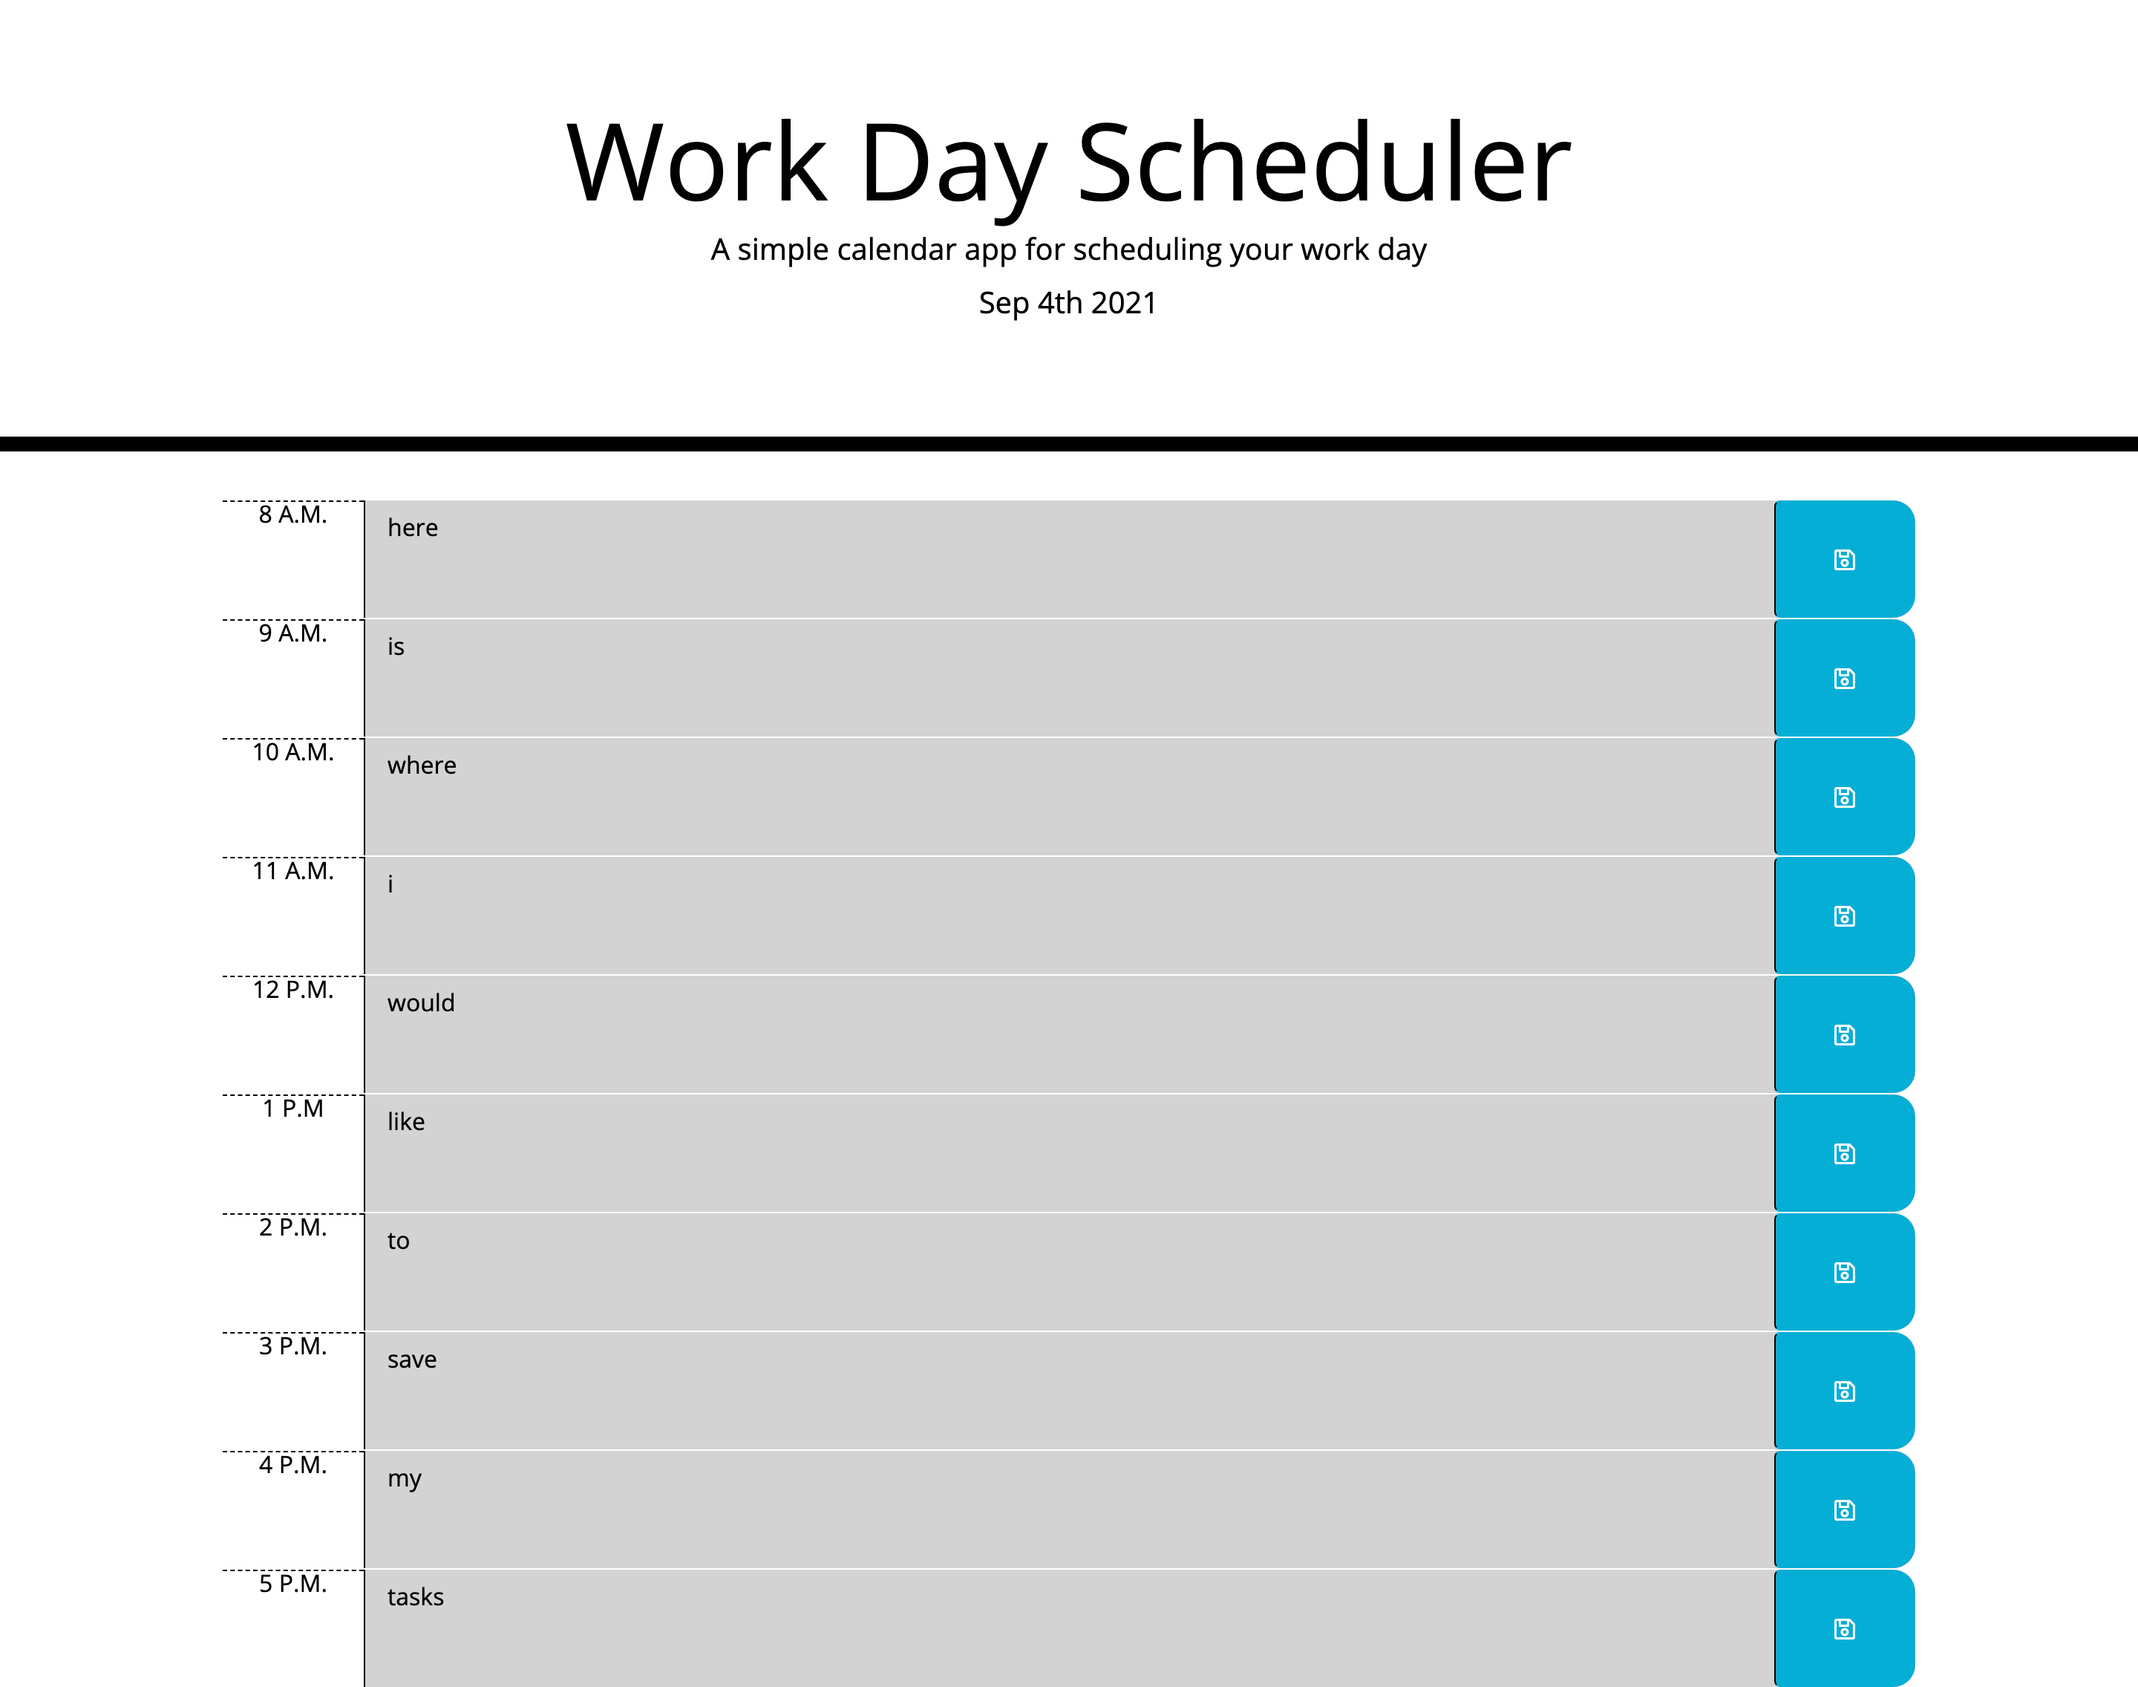
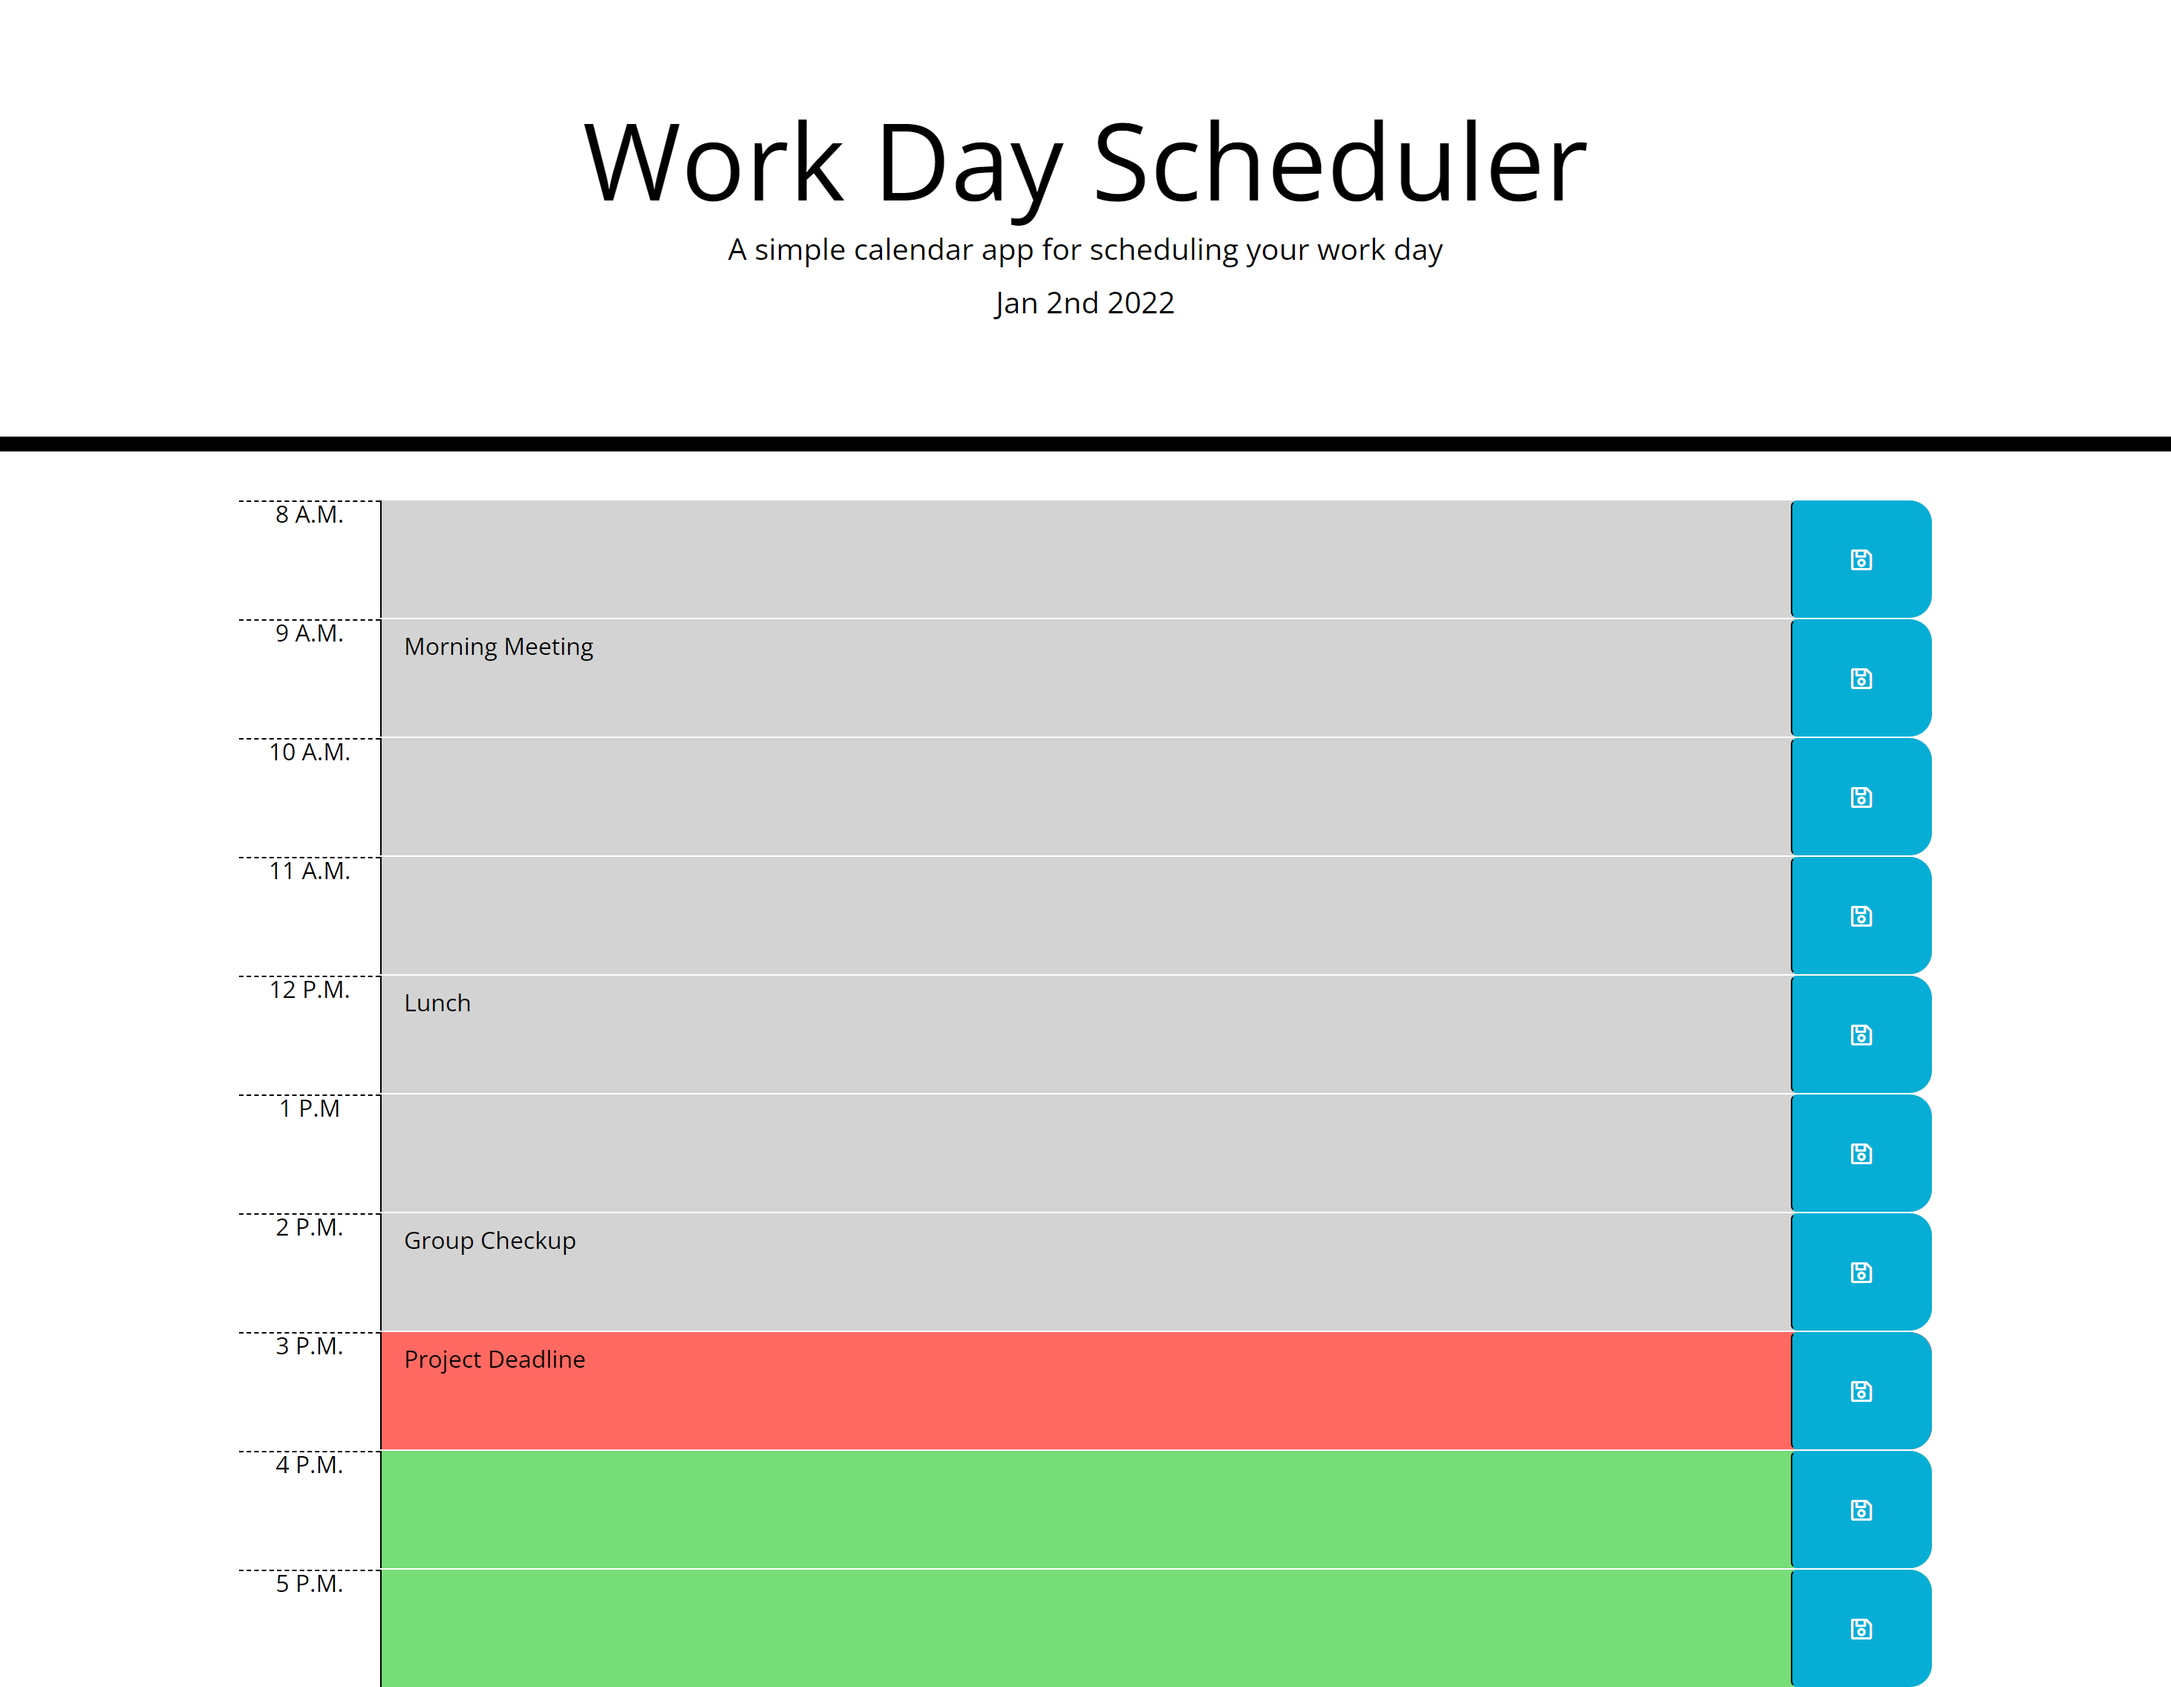
fixed time/color bug, updated readme

Changed region(s): [[0.125, 0.2812, 0.9062, 1.0], [0.25, 0.0625, 0.75, 0.1875]]

diff --git a/Assets/JavaScript/script.js b/Assets/JavaScript/script.js
@@ -1,105 +1,44 @@
 // Displays the current date using moment.js
-let today = moment().format('MMM Do YYYY');
-$('#currentDay').html(today)
+let today = moment().format("MMM Do YYYY");
+$("#currentDay").html(today);
 
-// Sets variable for current time
-let currentHour = moment().hour();
-console.log(currentHour);
+// Local Storage Save
+$(".saveBtn").on("click", function () {
+  let task = $(this).siblings("#textBlock").val();
+  let hour = $(this).parent().attr("id");
 
-// Local Storage Save 
-$('.saveBtn').on('click', function(){
-
-    let task = $(this).siblings("#textBlock").val();
-    let hour = $(this).parent().attr("id");
-
-    localStorage.setItem(hour, task)
-})
-
-// Gets local storage through key displaying the tasks discription
-$("#hour8AM #textBlock").val(localStorage.getItem("hour8AM"));
-$("#hour9AM #textBlock").val(localStorage.getItem("hour9AM"));
-$("#hour10AM #textBlock").val(localStorage.getItem("hour10AM"));
-$("#hour11AM #textBlock").val(localStorage.getItem("hour11AM"));
-$("#hour12PM #textBlock").val(localStorage.getItem("hour12PM"));
-$("#hour1PM #textBlock").val(localStorage.getItem("hour1PM"));
-$("#hour2PM #textBlock").val(localStorage.getItem("hour2PM"));
-$("#hour3PM #textBlock").val(localStorage.getItem("hour3PM"));
-$("#hour4PM #textBlock").val(localStorage.getItem("hour4PM"));
-$("#hour5PM #textBlock").val(localStorage.getItem("hour5PM"));
-
-
-
-
-// Creates values for each time slot
-const hour8 = document.getElementById('hour-8').value = 8
-const hour9 = document.getElementById('hour-9').value = 9
-const hour10 = document.getElementById('hour-10').value = 10
-const hour11 = document.getElementById('hour-11').value = 11
-const hour12 = document.getElementById('hour-12').value = 12
-const hour1 = document.getElementById('hour-1').value = 13
-const hour2 = document.getElementById('hour-2').value = 14
-const hour3 = document.getElementById('hour-3').value = 15
-const hour4 = document.getElementById('hour-4').value = 16
-const hour5 = document.getElementById('hour-5').value = 17
-
-// Stored values for time slots
-// let hourBlocks = [
-//     hour8,
-//     hour9,
-//     hour10,
-//     hour11,
-//     hour12,
-//     hour1,
-//     hour2,
-//     hour3,
-//     hour4,
-//     hour5]
+  localStorage.setItem(hour, task);
+});
 
 // Runs function to check if it is past, present, or future
 function pastToFuture() {
+  // Sets variable for current time
+  let currentHour = moment().hours();
+  console.log(currentHour);
 
+  $(".time-block").each(function () {
+    var hourBlocks = parseInt($(this).attr("id").split("hour")[1]);
 
-    $('.time-block').each( function(){
-        var hourBlocks = parseInt($(this).attr("id").split("hour")[1]);
+    if (hourBlocks < currentHour) {
+      $(this).addClass("past");
+    } else if (hourBlocks == currentHour) {
+      $(this).addClass("present");
+    } else {
+      $(this).addClass("future");
+    }
+  });
+}
 
-        if (hourBlocks < currentHour) {
-            $(this).addClass('past')
-            $(this).removeClass('present')
-            $(this).removeClass('future')
-        } else if (hourBlocks === currentHour) {
-            $(this).removeClass('past')
-            $(this).addClass('present')
-            $(this).removeClass('future')
-        } else {
-            $(this).removeClass('past')
-            $(this).removeClass('present')
-            $(this).addClass('future')
-        }
+pastToFuture();
 
-
-    })
-
-    // WHY DOES THIS FOR LOOP NOT WORK?
-    // For loop to check each time in array
-    // for (let index = 0; index < hourBlocks.length; index++) {
-
-        // Sets the background color class for past, present, or future
-        // if (hourBlocks < currentHour) {
-        //     $('.description').addClass('past')
-        //     $('.description').removeClass('present')
-        //     $('.description').removeClass('future')
-        // } else if (hourBlocks === currentHour) {
-        //     $('.description').removeClass('past')
-        //     $('.description').addClass('present')
-        //     $('.description').removeClass('future')
-        // } else {
-        //     $('.description').removeClass('past')
-        //     $('.description').removeClass('present')
-        //     $('.description').addClass('future')
-        // }
-        
-    // }
-    
-
-} pastToFuture();
-
+// Gets local storage through key displaying the tasks description
+$("#hour8 #textBlock").val(localStorage.getItem("hour8"));
+$("#hour9 #textBlock").val(localStorage.getItem("hour9"));
+$("#hour10 #textBlock").val(localStorage.getItem("hour10"));
+$("#hour11 #textBlock").val(localStorage.getItem("hour11"));
+$("#hour12 #textBlock").val(localStorage.getItem("hour12"));
+$("#hour13 #textBlock").val(localStorage.getItem("hour13"));
+$("#hour14 #textBlock").val(localStorage.getItem("hour14"));
+$("#hour15 #textBlock").val(localStorage.getItem("hour15"));
+$("#hour16 #textBlock").val(localStorage.getItem("hour16"));
+$("#hour17 #textBlock").val(localStorage.getItem("hour17"));

diff --git a/index.html b/index.html
@@ -22,70 +22,70 @@
   <div class="container">
 
     <!-- 8 AM -->
-    <div id="hour8AM" class="row time-block">
+    <div id="hour8" class="row time-block">
       <div id="hour-8" class="col-1 hour">8 A.M.</div>
       <textarea id="textBlock" class="col-10 description"></textarea>
       <button class="col-1 btn saveBtn"><i class="far fa-save"></i></button>
     </div>
 
     <!-- 9 AM -->
-    <div id="hour9AM" class="row time-block">
+    <div id="hour9" class="row time-block">
       <div id="hour-9" class="col-1 hour">9 A.M.</div>
       <textarea id="textBlock"  class="col-10 description"></textarea>
       <button class="col-1 btn saveBtn"><i class="far fa-save"></i></button>
     </div>
 
     <!-- 10 AM -->
-    <div id="hour10AM" class="row time-block">
+    <div id="hour10" class="row time-block">
       <div id="hour-10" class="col-1 hour">10 A.M.</div>
       <textarea id="textBlock"  class="col-10 description"></textarea>
       <button class="col-1 btn saveBtn"><i class="far fa-save"></i></button>
     </div>
 
     <!-- 11 AM -->
-    <div id="hour11AM" id="" class="row time-block">
+    <div id="hour11" id="" class="row time-block">
       <div id="hour-11" class="col-1 hour">11 A.M.</div>
       <textarea id="textBlock"  class="col-10 description"></textarea>
       <button class="col-1 btn saveBtn"><i class="far fa-save"></i></button>
     </div>
     
     <!-- 12 PM -->
-    <div id="hour12PM" class="row time-block">
+    <div id="hour12" class="row time-block">
       <div id="hour-12" class="col-1 hour">12 P.M.</div>
       <textarea id="textBlock"  class="col-10 description"></textarea>
       <button class="col-1 btn saveBtn"><i class="far fa-save"></i></button>
     </div>
 
     <!-- 1 PM -->
-    <div id="hour1PM" class="row time-block">
+    <div id="hour13" class="row time-block">
       <div id="hour-1" class="col-1 hour">1 P.M</div>
       <textarea id="textBlock"  class="col-10 description"></textarea>
       <button class="col-1 btn saveBtn"><i class="far fa-save"></i></button>
     </div>
 
     <!-- 2 PM -->
-    <div id="hour2PM" class="row time-block">
+    <div id="hour14" class="row time-block">
       <div id="hour-2" class="col-1 hour">2 P.M.</div>
       <textarea id="textBlock"  class="col-10 description"></textarea>
       <button class="col-1 btn saveBtn"><i class="far fa-save"></i></button>
     </div>
 
     <!-- 3 PM -->
-    <div id="hour3PM" class="row time-block">
+    <div id="hour15" class="row time-block">
       <div id="hour-3" class="col-1 hour">3 P.M.</div>
       <textarea id="textBlock"  class="col-10 description"></textarea>
       <button class="col-1 btn saveBtn"><i class="far fa-save"></i></button>
     </div>
 
     <!-- 4 PM -->
-    <div id="hour4PM" class="row time-block">
+    <div id="hour16" class="row time-block">
       <div id="hour-4" class="col-1 hour">4 P.M.</div>
       <textarea id="textBlock"  class="col-10 description"></textarea>
       <button class="col-1 btn saveBtn"><i class="far fa-save"></i></button>
     </div>
     
     <!-- 5 PM -->
-    <div id="hour5PM" class="row time-block">
+    <div id="hour17" class="row time-block">
       <div id="hour-5" class="col-1 hour">5 P.M.</div>
       <textarea id="textBlock"  class="col-10 description"></textarea>
       <button class="col-1 btn saveBtn"><i class="far fa-save"></i></button>

diff --git a/README.md b/README.md
@@ -1,6 +1,25 @@
 # Work Day Scheduler
-This challenge required me to create a scheduler for hours of the work day. Depending on the hour of the day the background will change. 
+This applications purpose is to help individuals working a 9-5 job keep track of their daily tasks.
+![work-day-planner-example](Assets/Images/work-day.png)
 
-# <a href="https://spurgason.github.io/work-day-scheduler/">Deployed Application</a>
+## Technologies
+`HTML/CSS`<br>
+`Javascript`<br>
+`Moment.js`<br>
+`jQuery`<br>
 
-<img src="Assets/Images/work-day.png">
+## Install
+To install this application simply clone this repository, open it in your code editor and open the `index.html` in your browser.
+
+## Usage 
+This application allows users to save tasks to an hourly time slot. Depending on the hour the time slot's color will change indicating that the task is currently due, upcoming in the near future, or it has already passed.  
+
+## Live Application 
+[Here](https://spurgason.github.io/work-day-scheduler/)
+
+## Contributor
+[Shane Purgason](https://github.com/spurgason)
+
+## Questions
+[Github](https://github.com/spurgason) <br>
+[Email](mailto:shanepurgason.98@gmail.com)
